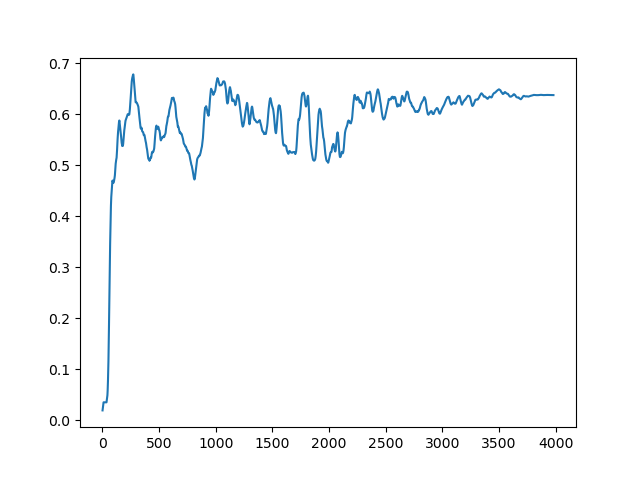
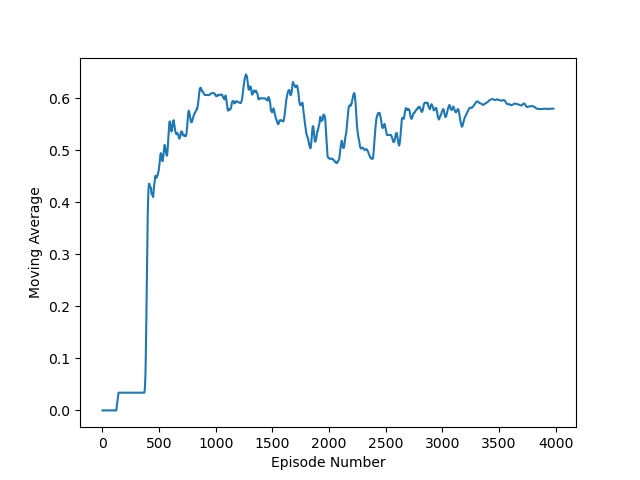
adding individual plot function

diff --git a/q6_main_function.py b/q6_main_function.py
@@ -12,13 +12,10 @@ def prepare_plot(returns, name):
     # Moving average window of length 20
     window = 20
     # Calculate the moving average using np.convolve
-    mp = np.convolve(returns, np.ones(20)/20, mode='valid')
+    ma = np.convolve(returns, np.ones(window) / window, mode='valid')
     # Plot the episode number on the x-axis and the moving average on the y-axis
-    plt.clf()
-    plt.cla()
-    plt.plot(np.arange(1, len(mp) + 1), mp)
-    plt.savefig('plots/{}.png'.format(name))
-    return name
+    line, = plt.plot(np.arange(1, len(ma) + 1), ma)
+    return name, line
 
 
 def show_all_plots(plots_):
@@ -28,7 +25,7 @@ def show_all_plots(plots_):
     if not isExist:
         # Create a new directory because it does not exist
         os.makedirs(path)
-        print("Directory " + path + " created.")
+        print("Direcotry " + path + " created.")
 
     plots = [eachPlot[1] for eachPlot in plots_]
     names = [eachPlot[0] for eachPlot in plots_]
@@ -38,6 +35,20 @@ def show_all_plots(plots_):
     plt.ylabel('Moving Average')
     plt.savefig('plots/{}.png'.format("All_plots"))
     plt.show()
+
+
+def show_individual_plot(returns_, name):
+    # Moving average window of length 20
+    window = 20
+    # Calculate the moving average using np.convolve
+    ma = np.convolve(returns_, np.ones(window) / window, mode='valid')
+    # Plot the episode number on the x-axis and the moving average on the y-axis
+    plt.clf()
+    plt.cla()
+    plt.plot(np.arange(1, len(ma) + 1), ma)
+    plt.xlabel('Episode Number')
+    plt.ylabel('Moving Average')
+    plt.savefig('plots/{}.png'.format(name))
 
 
 def main():
@@ -83,6 +94,7 @@ def main():
     print('## Sarsa')
     policy, value, returns_ = sarsa(env, max_episodes, alpha, gamma, epsilon)
     env.render(policy, value)
+    show_individual_plot(returns_, "Sarsa")
     plot_ = prepare_plot(returns_, "Sarsa")
     plots_.append(plot_)
 
@@ -93,6 +105,7 @@ def main():
     gamma = 1.0
     policy, value, returns_ = q_learning(env, max_episodes, alpha, gamma, epsilon)
     env.render(policy, value)
+    show_individual_plot(returns_, "Q-Learning")
     plot_ = prepare_plot(returns_, "Q-Learning")
     plots_.append(plot_)
 
@@ -103,6 +116,7 @@ def main():
     parameters, returns_ = linear_sarsa(linear_env, max_episodes, alpha, gamma, epsilon, seed=seed)
     policy, value = linear_env.decode_policy(parameters)
     linear_env.render(policy, value)
+    show_individual_plot(returns_, "Linear Sarsa")
     plot_ = prepare_plot(returns_, "Linear Sarsa")
     plots_.append(plot_)
 
@@ -111,6 +125,7 @@ def main():
     parameters, returns_ = linear_q_learning(linear_env, max_episodes, alpha, gamma, epsilon, seed=seed)
     policy, value = linear_env.decode_policy(parameters)
     linear_env.render(policy, value)
+    show_individual_plot(returns_, "Linear Q Learning")
     plot_ = prepare_plot(returns_, "Linear-Q-Learning")
     plots_.append(plot_)
 
@@ -126,6 +141,7 @@ def main():
     policy, value = image_env.decode_policy(dqn[0])
     returns_ = dqn[1]
     image_env.render(policy, value)
+    show_individual_plot(returns_, "DQN")
     plot_ = prepare_plot(returns_, "DQN")
     plots_.append(plot_)
     show_all_plots(plots_)
